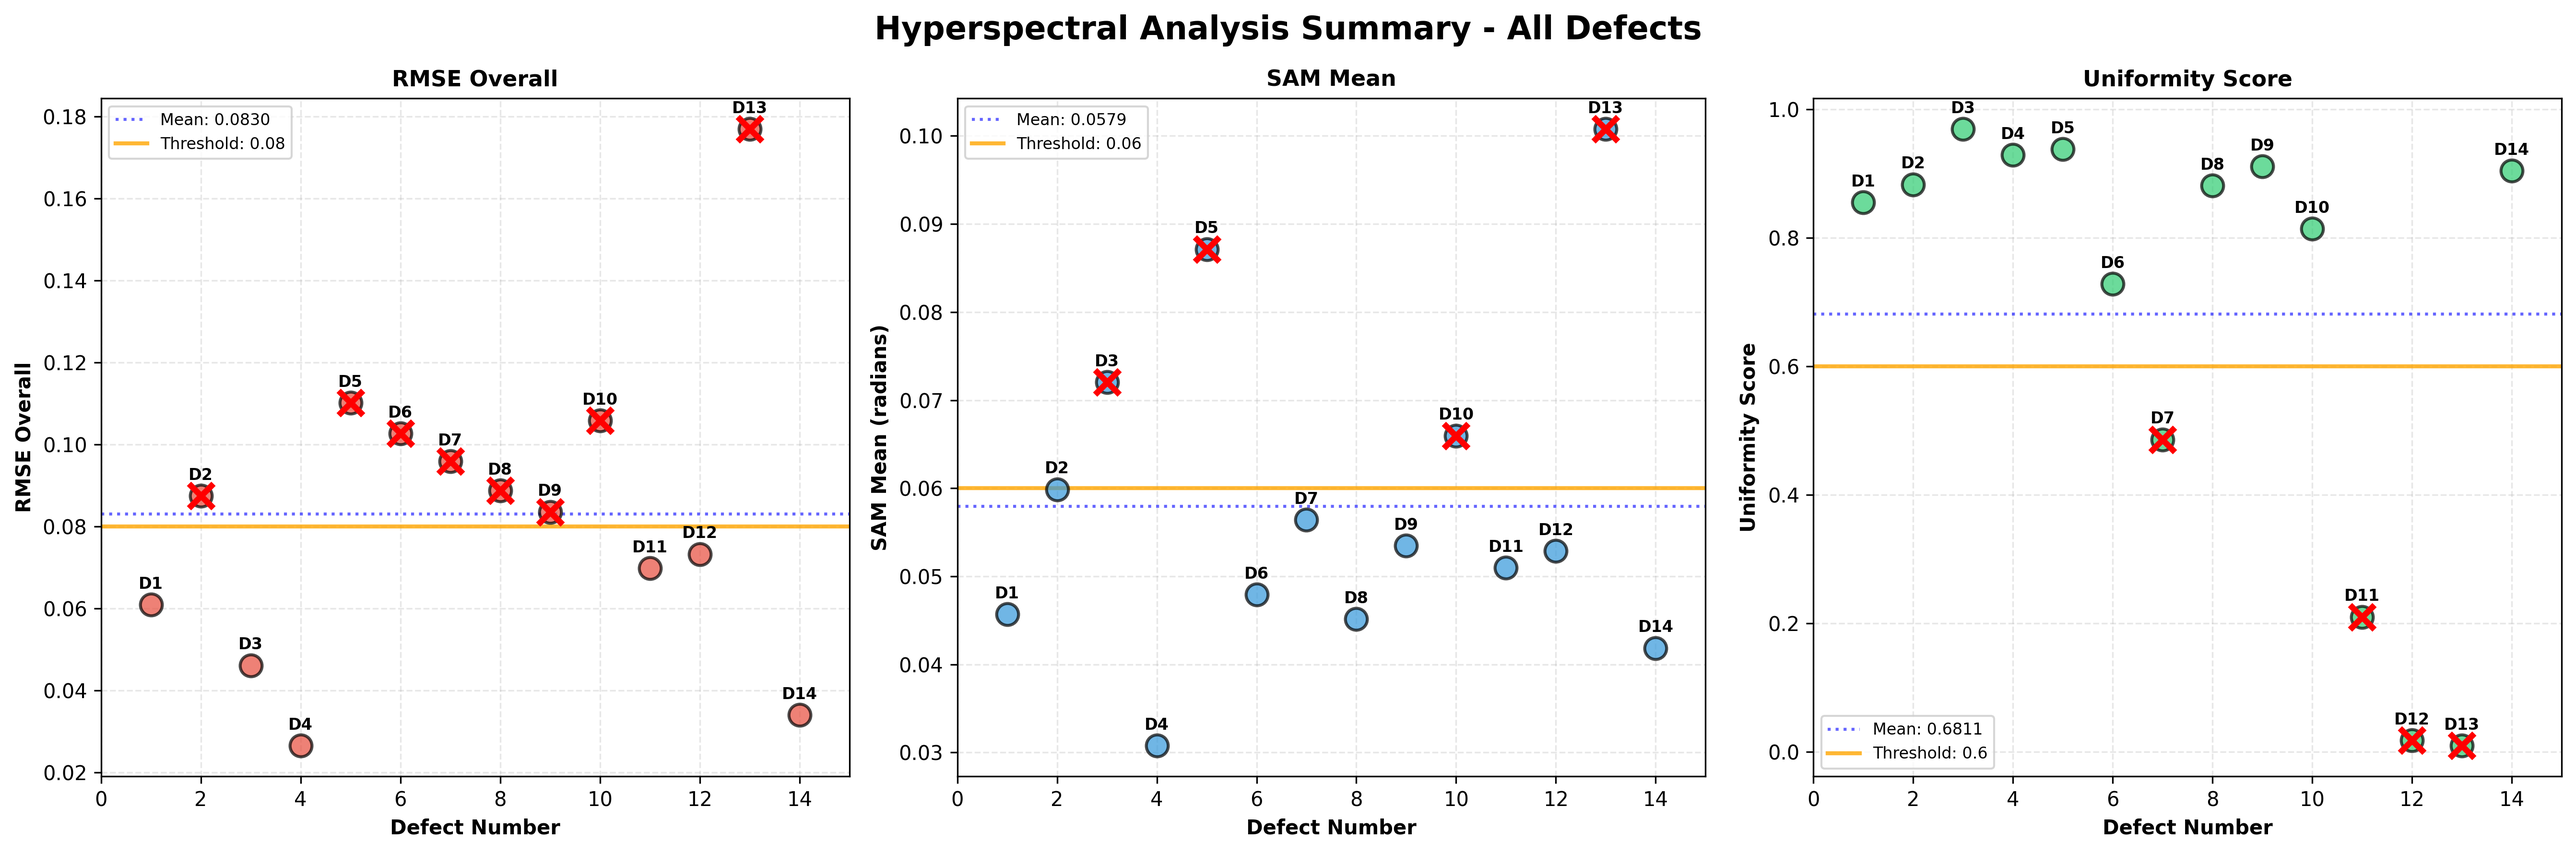
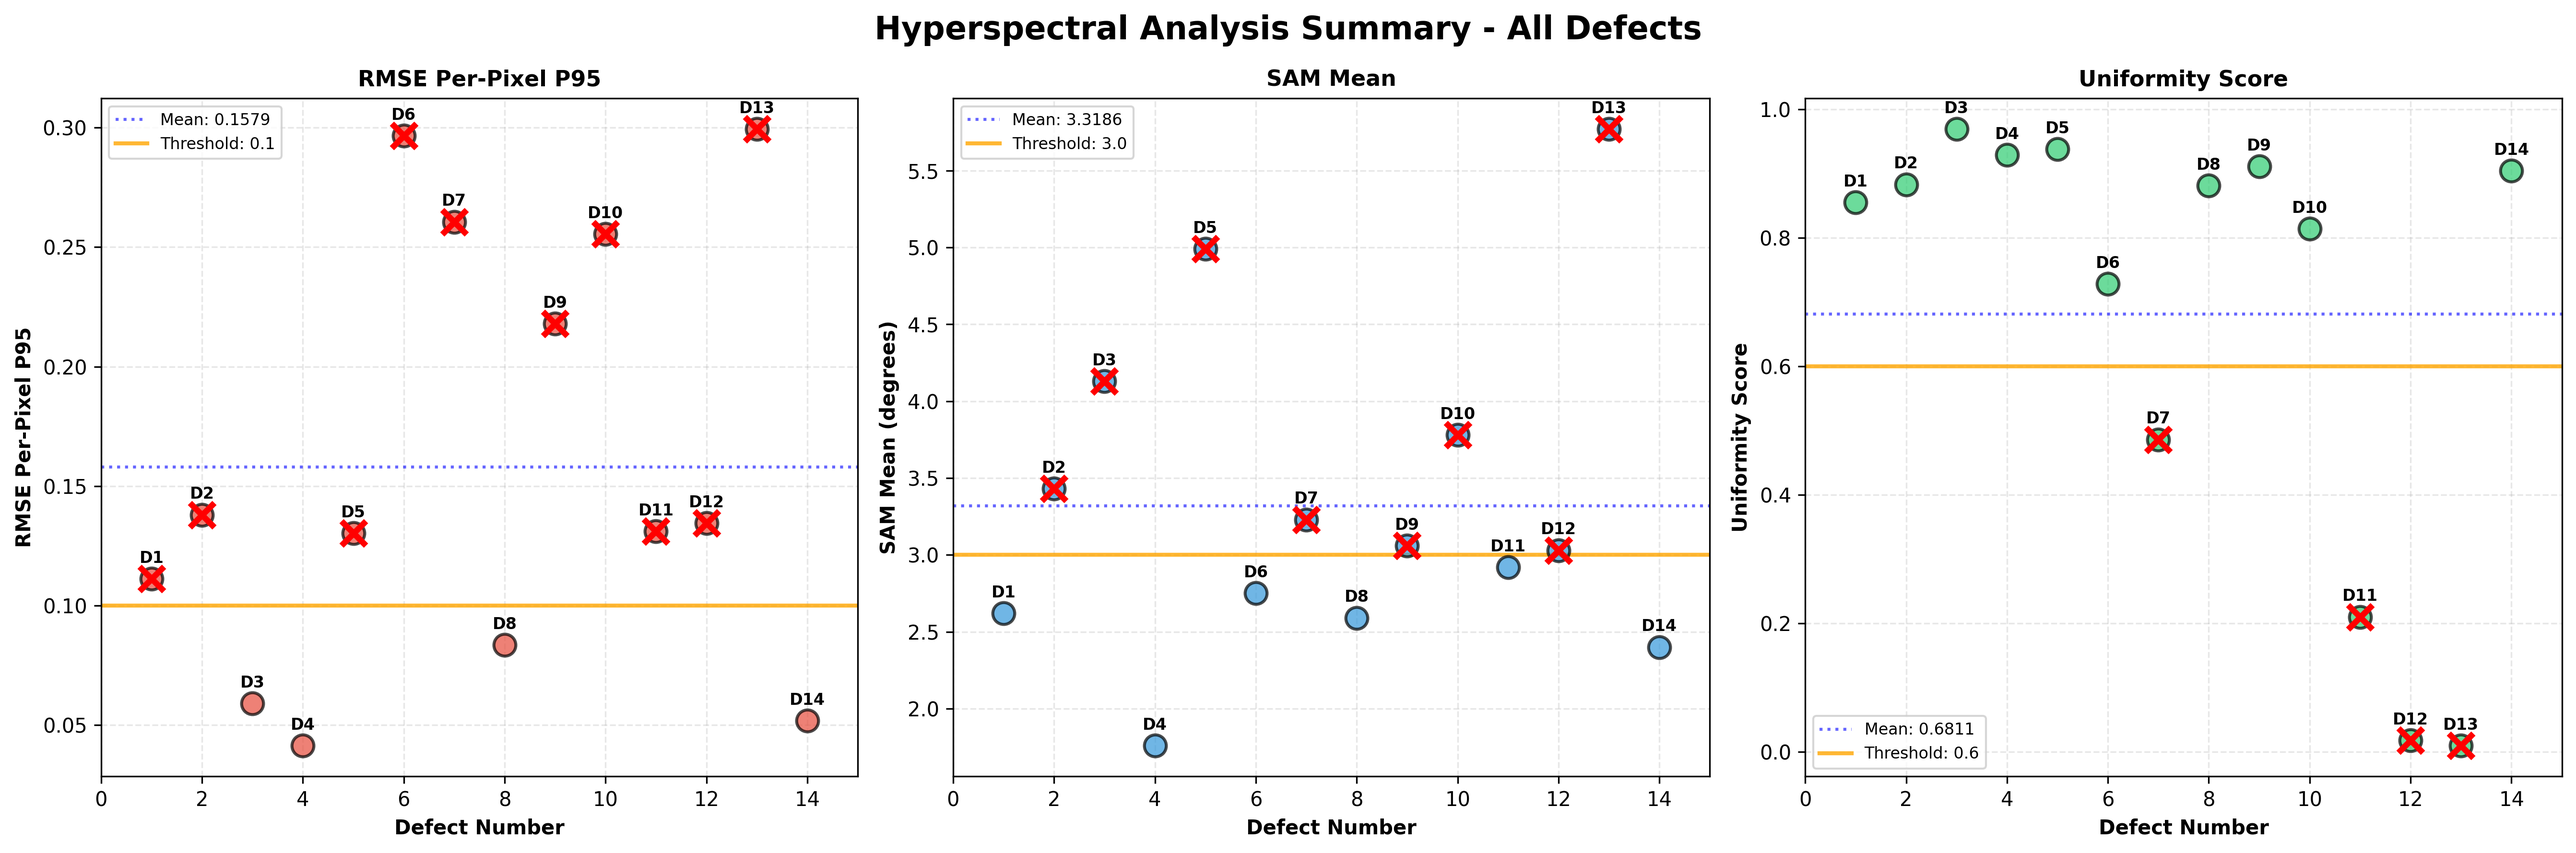
Update README.md

diff --git a/README.md b/README.md
@@ -153,9 +153,9 @@ Meaning: 1.0 = sectors very similar (high uniformity). Lower values = more angul
 ## 6. Scatter Plots (After Running)
 Below are the plot references (will show once generated):
 
-![RMSE Scatter](assets/scatter_plots/RMSE_Overall_Scatter.png)
-![SAM Mean Scatter](assets/scatter_plots/SAM_Mean_Scatter.png)
-![Uniformity Score Scatter](assets/scatter_plots/Uniformity_Score_Scatter.png)
+![RMSE Scatter](assets/scatter_plots/CTQ1_RMSE_RMSE_Per_Pixel_P95_Scatter.png)
+![SAM Mean Scatter](assets/scatter_plots/CTQ2_SAM_SAM_Mean_Scatter.png)
+![Uniformity Score Scatter](assets/scatter_plots/CTQ3_Uniformity_Score_Scatter.png)
 ![Combined Scatter](assets/scatter_plots/Combined_Analysis_Scatter.png)
 
 Red X = metric fails threshold. Orange line = threshold. Blue dotted line = mean.
